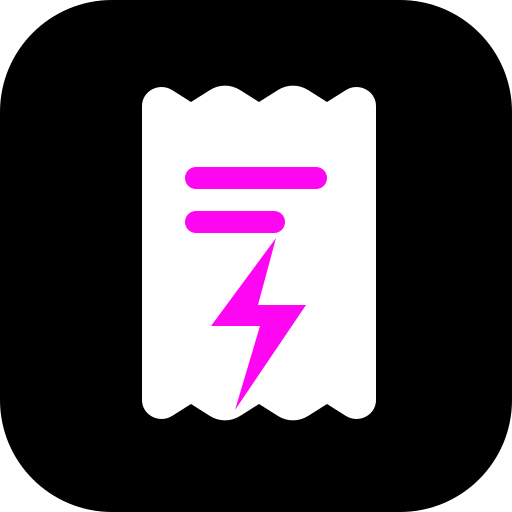
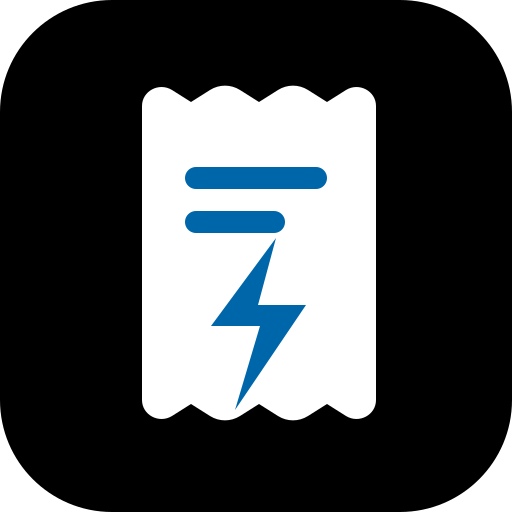
refactor: centralize UI colors in CSS theme variables

Changed region(s): [[0.3438, 0.4062, 0.5938, 0.7812], [0.3438, 0.3125, 0.6562, 0.375]]

diff --git a/src/styles.css b/src/styles.css
@@ -13,11 +13,13 @@
   font-synthesis: none;
   text-rendering: optimizeLegibility;
   -webkit-font-smoothing: antialiased;
-  --background: #ffffff;
-  --primary: #000000;
+  /* The whole UI palette starts with these three values. */
+  --black: #000000;
+  --white: #ffffff;
   --accent: #0066aa;
-  --surface: var(--background);
-  --ink: var(--primary);
+  --background: var(--white);
+  --primary: var(--black);
+  --on-accent: var(--white);
   --muted: color-mix(in srgb, var(--primary) 68%, transparent);
   --line: color-mix(in srgb, var(--accent) 48%, transparent);
   --danger: var(--accent);
@@ -27,8 +29,8 @@
 }
 
 :root[data-theme="dark"] {
-  --background: #000000;
-  --primary: #ffffff;
+  --background: var(--black);
+  --primary: var(--white);
   color-scheme: dark;
 }
 
@@ -143,7 +145,7 @@ input:focus-visible {
   justify-content: space-between;
   width: 100%;
   margin-bottom: 8px;
-  color: var(--ink);
+  color: var(--primary);
   font-size: 0.84rem;
   font-weight: 750;
 }
@@ -173,7 +175,7 @@ input:focus-visible {
   overflow: hidden;
   border: 1px solid var(--line);
   border-radius: 16px;
-  background: var(--surface);
+  background: var(--background);
   box-shadow: 0 2px 8px color-mix(in srgb, var(--accent) 5%, transparent);
   color: var(--muted);
   cursor: pointer;
@@ -193,7 +195,7 @@ input:focus-visible {
 .category-option.selected {
   border-color: var(--accent);
   background: var(--accent);
-  color: #000000;
+  color: var(--on-accent);
 }
 
 .category-option input {
@@ -226,14 +228,14 @@ input:focus-visible {
   align-items: center;
   border: 1px solid var(--line);
   border-radius: 14px;
-  background: var(--surface);
+  background: var(--background);
   box-shadow: 0 2px 8px color-mix(in srgb, var(--accent) 5%, transparent);
 }
 
 .field > input {
   min-width: 0;
   padding: 0 14px;
-  color: var(--ink);
+  color: var(--primary);
   -webkit-appearance: none;
   appearance: none;
 }
@@ -316,12 +318,12 @@ input:focus-visible {
 .button.primary {
   background: var(--accent);
   box-shadow: 0 8px 18px color-mix(in srgb, var(--accent) 30%, transparent);
-  color: #000000;
+  color: var(--on-accent);
 }
 
 .button.secondary {
   border: 1px solid var(--line);
-  background: var(--surface);
+  background: var(--background);
   color: var(--primary);
 }
 
@@ -353,7 +355,7 @@ input:focus-visible {
   height: 29px;
   place-items: center;
   border-radius: 50%;
-  background: rgb(0 0 0 / 12%);
+  background: color-mix(in srgb, var(--on-accent) 18%, transparent);
   font-size: 1.15rem;
   line-height: 1;
 }
@@ -368,7 +370,7 @@ input:focus-visible {
   border-radius: 20px;
   background: var(--accent);
   box-shadow: var(--shadow);
-  color: #000000;
+  color: var(--on-accent);
   text-align: center;
 }
 
@@ -392,7 +394,7 @@ input:focus-visible {
   padding: 0;
   border: 0;
   border-radius: 50%;
-  background: rgb(0 0 0 / 12%);
+  background: color-mix(in srgb, var(--on-accent) 18%, transparent);
   color: inherit;
   cursor: pointer;
   font-size: 1.65rem;
@@ -400,7 +402,7 @@ input:focus-visible {
 
 .month-card p {
   margin: 0 0 4px;
-  color: rgb(0 0 0 / 68%);
+  color: color-mix(in srgb, var(--on-accent) 72%, transparent);
   font-size: 0.78rem;
 }
 
@@ -424,7 +426,7 @@ input:focus-visible {
 
 .empty-state h2 {
   margin: 12px 0 5px;
-  color: var(--ink);
+  color: var(--primary);
   font-size: 1.05rem;
 }
 
@@ -437,7 +439,7 @@ input:focus-visible {
   overflow: hidden;
   border: 1px solid var(--line);
   border-radius: 18px;
-  background: var(--surface);
+  background: var(--background);
   box-shadow: var(--shadow);
 }
 
@@ -536,7 +538,7 @@ input:focus-visible {
   align-items: flex-end;
   justify-content: center;
   padding-top: env(safe-area-inset-top);
-  background: rgb(0 0 0 / 72%);
+  background: color-mix(in srgb, var(--black) 72%, transparent);
   backdrop-filter: blur(3px);
 }
 
@@ -547,7 +549,7 @@ input:focus-visible {
   overflow-y: auto;
   border-radius: 24px 24px 0 0;
   background: var(--background);
-  box-shadow: 0 -20px 60px rgb(0 0 0 / 20%);
+  box-shadow: 0 -20px 60px color-mix(in srgb, var(--black) 20%, transparent);
 }
 
 .dialog-header {
@@ -563,8 +565,8 @@ input:focus-visible {
 }
 
 .dialog-header .icon-button {
-  background: var(--surface);
-  color: var(--ink);
+  background: var(--background);
+  color: var(--primary);
 }
 
 .transfer-screen {
@@ -580,7 +582,7 @@ input:focus-visible {
   padding: 18px;
   border: 1px solid var(--line);
   border-radius: 18px;
-  background: var(--surface);
+  background: var(--background);
   box-shadow: 0 7px 22px color-mix(in srgb, var(--accent) 8%, transparent);
 }
 
@@ -592,7 +594,7 @@ input:focus-visible {
   place-items: center;
   border-radius: 13px;
   background: var(--accent);
-  color: #000000;
+  color: var(--on-accent);
   font-size: 1.4rem;
   font-weight: 800;
 }
@@ -700,7 +702,7 @@ input:focus-visible {
 
 .bottom-nav button.active {
   background: var(--accent);
-  color: #000000;
+  color: var(--on-accent);
 }
 
 .toast,
@@ -714,7 +716,7 @@ input:focus-visible {
   border: 0;
   border-radius: 14px;
   background: var(--primary);
-  box-shadow: 0 12px 34px rgb(0 0 0 / 20%);
+  box-shadow: 0 12px 34px color-mix(in srgb, var(--black) 20%, transparent);
   color: var(--background);
   font-size: 0.82rem;
   font-weight: 700;
@@ -733,7 +735,7 @@ input:focus-visible {
   padding: 0;
   border: 1px solid var(--line);
   border-radius: 50%;
-  background: var(--surface);
+  background: var(--background);
   box-shadow: 0 5px 18px color-mix(in srgb, var(--accent) 14%, transparent);
   color: var(--primary);
   cursor: pointer;
@@ -755,7 +757,7 @@ input:focus-visible {
   border: 0;
   border-radius: 9px;
   background: var(--accent);
-  color: #000000;
+  color: var(--on-accent);
   cursor: pointer;
   font-weight: 750;
 }

diff --git a/src/test/theme.test.ts b/src/test/theme.test.ts
@@ -22,12 +22,7 @@ describe('theme preferences', () => {
   })
 
   it('applies the theme to the document root', () => {
-    const themeColor = document.createElement('meta')
-    themeColor.name = 'theme-color'
-    document.head.appendChild(themeColor)
     applyTheme('light')
     expect(document.documentElement.dataset.theme).toBe('light')
-    expect(themeColor).toHaveAttribute('content', '#002da9')
-    themeColor.remove()
   })
 })

diff --git a/index.html b/index.html
@@ -6,7 +6,7 @@
       name="viewport"
       content="width=device-width, initial-scale=1.0, viewport-fit=cover"
     />
-    <meta name="theme-color" content="#ff06f3" />
+    <meta name="theme-color" content="#000000" />
     <meta name="apple-mobile-web-app-capable" content="yes" />
     <meta name="apple-mobile-web-app-status-bar-style" content="default" />
     <meta name="apple-mobile-web-app-title" content="QuickSpend" />

diff --git a/vite.config.ts b/vite.config.ts
@@ -15,7 +15,7 @@ const manifest: Partial<ManifestOptions> & { version: string } = {
   display: 'standalone',
   orientation: 'portrait-primary',
   background_color: '#000000',
-  theme_color: '#ff06f3',
+  theme_color: '#000000',
   icons: [
     { src: 'pwa-192x192.png', sizes: '192x192', type: 'image/png' },
     { src: 'pwa-512x512.png', sizes: '512x512', type: 'image/png' },

diff --git a/src/theme.ts b/src/theme.ts
@@ -21,7 +21,4 @@ export function saveTheme(theme: Theme, storage: Storage = localStorage): void {
 
 export function applyTheme(theme: Theme): void {
   document.documentElement.dataset.theme = theme
-  document
-    .querySelector('meta[name="theme-color"]')
-    ?.setAttribute('content', theme === 'dark' ? '#000000' : '#0006a8')
 }
